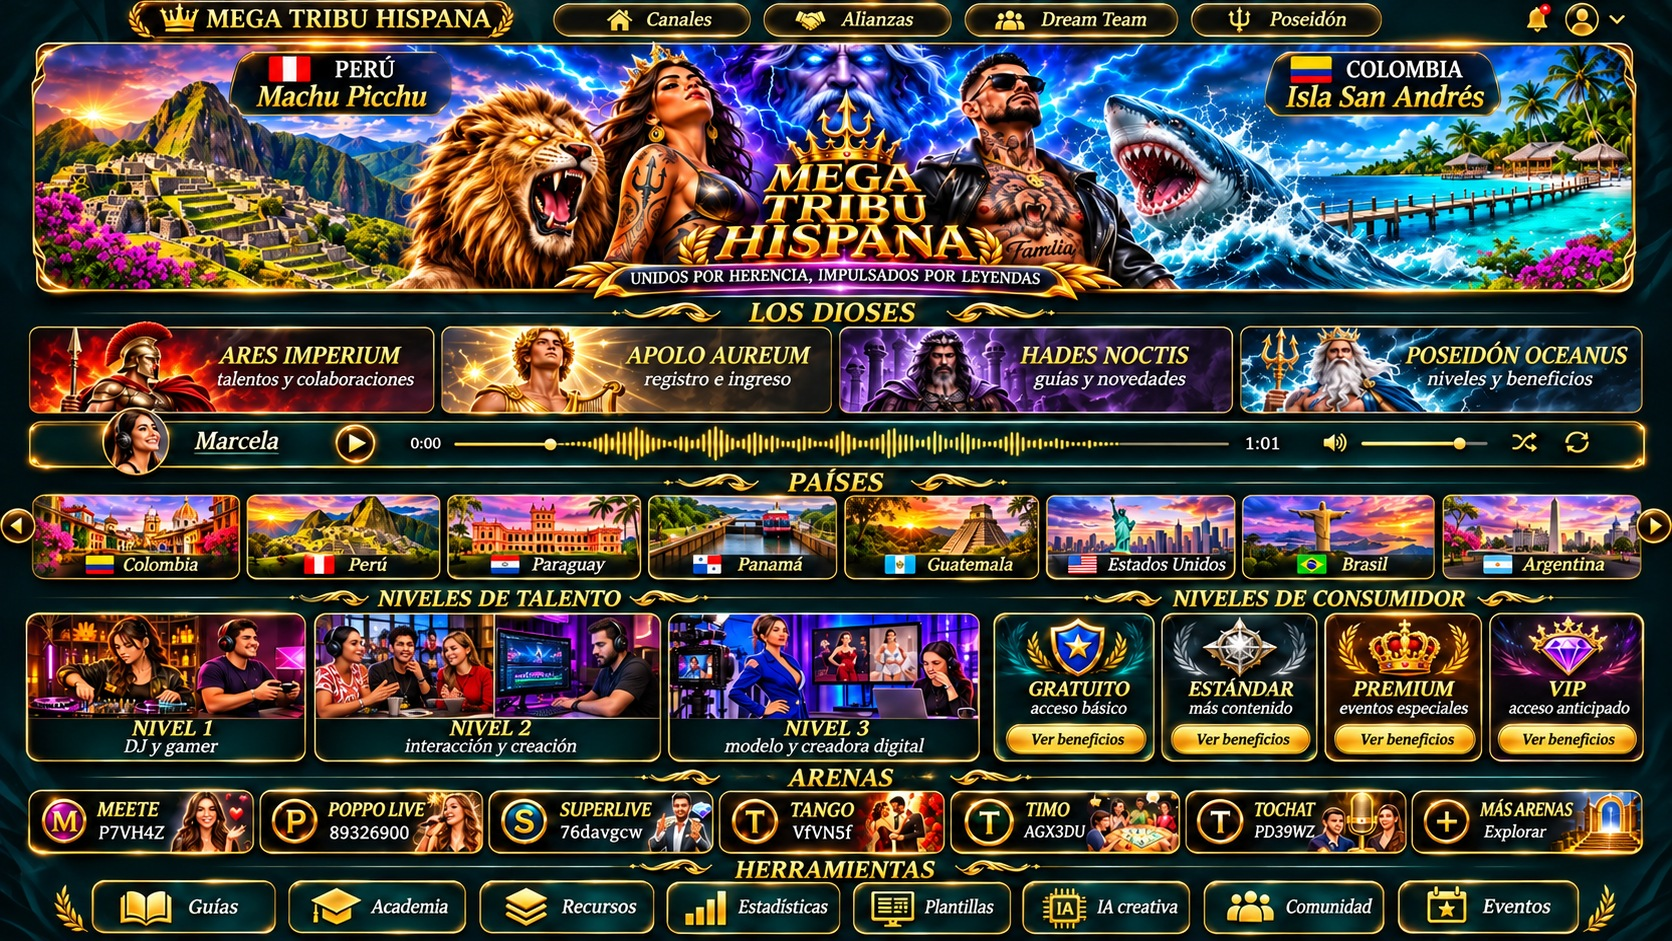
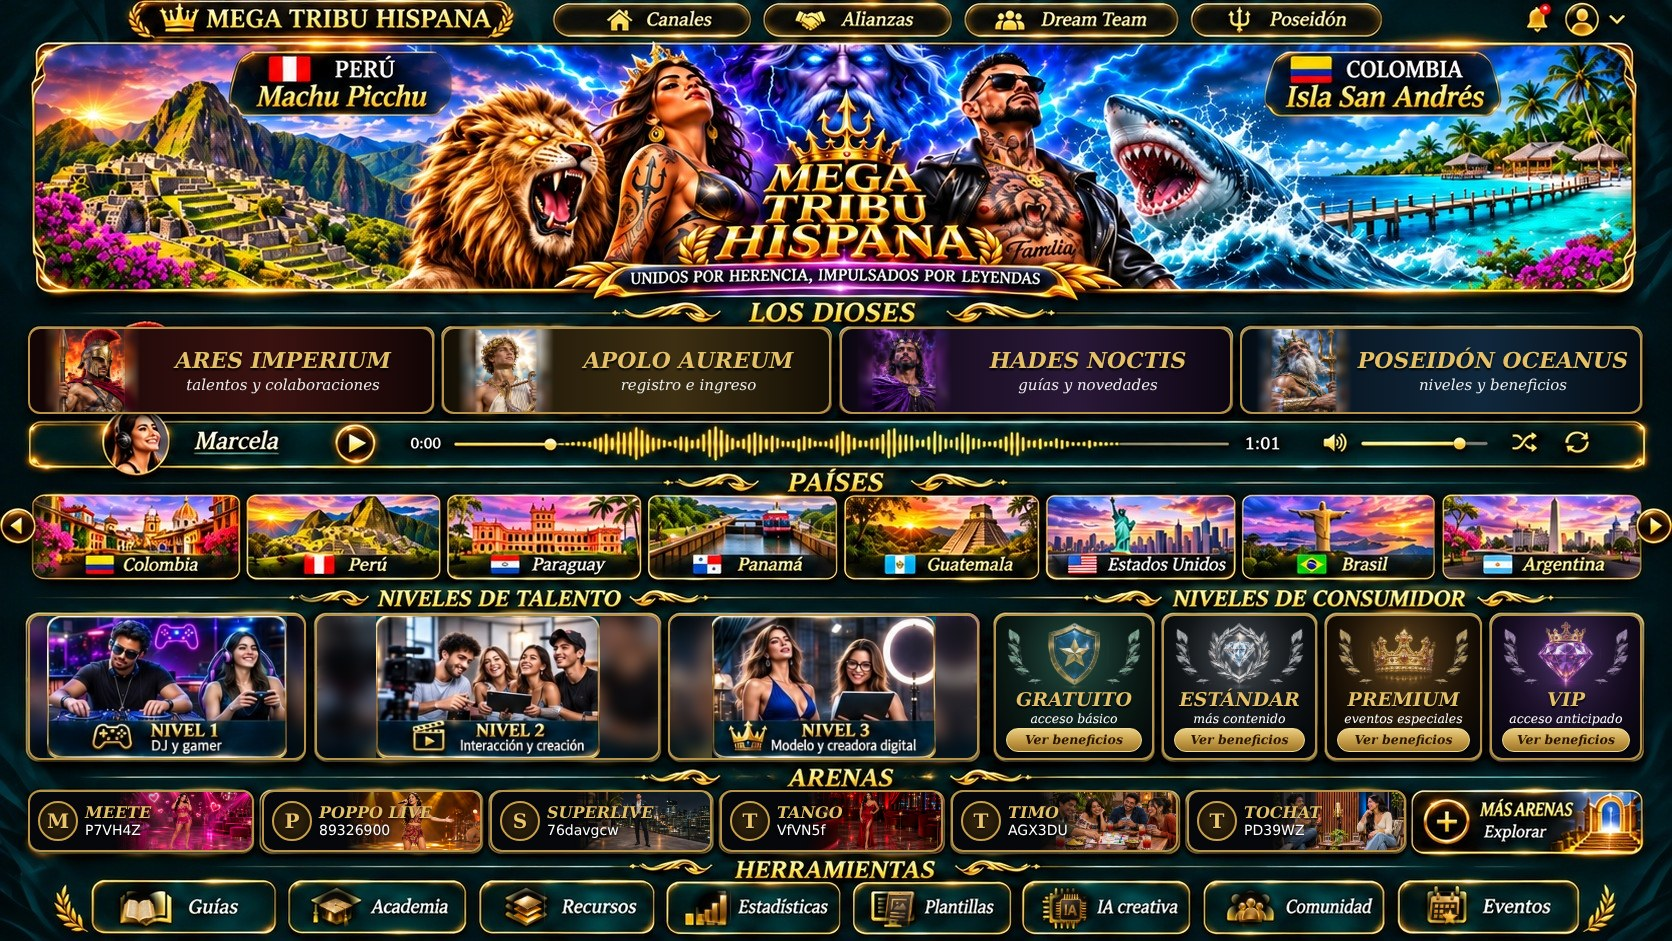
Add files via upload

Changed region(s): [[0.0, 0.6472, 0.9952, 0.9862], [0.0, 0.339, 0.9952, 0.4623], [0.8397, 0.9245, 0.9019, 0.9862]]

diff --git a/index.html b/index.html
@@ -34,11 +34,11 @@ a.r:hover,a.r:focus-visible{filter:brightness(1.15);box-shadow:0 0 0 2px #ffd56b
 .lienzo .r{background-image:none!important;position:absolute;left:calc(var(--x) / 16.72 * 1%);top:calc(var(--y) / 9.41 * 1%);width:calc(var(--w) / 16.72 * 1%);height:calc(var(--h) / 9.41 * 1%);aspect-ratio:auto;background:none}
 .lienzo .titulo,.lienzo .fila-titulo{display:none}
 .lienzo .paises{position:absolute;left:.6%;top:52.3%;width:98.8%;height:9.6%;background:#041214;border-radius:6px}
-.lienzo .audio{position:absolute;left:1.5%;top:42.9%;width:97%;height:7.5%}
+.lienzo .audio{position:absolute;left:1.5%;top:44.3%;width:97%;height:5.8%}
 .lienzo .bloque{display:contents}
 
 /* ===== modo COLUMNA (celular / vertical) ===== */
-.columna{width:100vw;max-width:100vw;height:var(--alto);display:flex;flex-direction:column;gap:5px;padding:calc(env(safe-area-inset-top) + 5px) 6px calc(env(safe-area-inset-bottom) + 5px)}
+.columna{width:100vw;max-width:100vw;height:var(--alto);display:flex;flex-direction:column;justify-content:space-evenly;gap:5px;padding:calc(env(safe-area-inset-top) + 5px) 6px calc(env(safe-area-inset-bottom) + 5px)}
 .columna .bloque{display:flex;gap:4px;min-height:0;width:100%;min-width:0}
 .columna .r{min-width:0;min-height:0}
 .columna .nav .r,.columna .fila .r{flex-basis:0}
@@ -53,7 +53,7 @@ a.r:hover,a.r:focus-visible{filter:brightness(1.15);box-shadow:0 0 0 2px #ffd56b
 .columna .arenas::-webkit-scrollbar{display:none}
 .columna .arenas .r{flex:none;height:clamp(44px,7.5vh,62px);scroll-snap-align:start}
 .columna .herr{display:grid;grid-template-columns:repeat(4,minmax(0,1fr));gap:4px;flex:none}
-.columna .paises{flex:1 1 72px;min-height:58px;max-height:30vh}
+.columna .paises{flex:none;height:clamp(64px,12vh,140px)}
 .columna .audio{flex:none;height:44px}
 .titulo{flex:none;text-align:center;font:italic 900 13px/1 "Playfair Display",Georgia,serif;letter-spacing:.06em;color:#ffd56b;text-shadow:0 1px 0 #6b430a,0 0 10px rgba(255,190,70,.4);text-transform:uppercase}
 .titulo::before,.titulo::after{content:"";display:inline-block;width:34px;height:1.5px;margin:0 8px;vertical-align:middle;background:linear-gradient(90deg,transparent,#e5b04d)}
@@ -66,7 +66,7 @@ a.r:hover,a.r:focus-visible{filter:brightness(1.15);box-shadow:0 0 0 2px #ffd56b
 .carril::-webkit-scrollbar{display:none}
 .pais{flex:0 0 calc((100% - 7 * .55%) / 8);scroll-snap-align:start;position:relative;border-radius:7px;overflow:hidden;border:1.5px solid #d6a648;
  box-shadow:0 0 8px rgba(255,195,80,.25);cursor:pointer;background:#000}
-.columna .pais{flex-basis:30%}
+.columna .pais{flex-basis:23%}
 .pais img{width:100%;height:100%;object-fit:cover;display:block}
 .pais span{position:absolute;left:0;right:0;bottom:0;padding:10% 2px 3px;text-align:center;background:linear-gradient(transparent,rgba(0,0,0,.88) 40%);
  font:italic 700 clamp(9px,1.05vw,15px)/1.1 Georgia,serif;color:#fff;white-space:nowrap;overflow:hidden;text-overflow:ellipsis}
@@ -187,7 +187,7 @@ document.addEventListener('click',function(e){var a=e.target.closest('[data-ir]'
 /* modo lienzo (horizontal) o columna (vertical) */
 var app=document.getElementById('app');
 function modo(){var h=(tg&&tg.initData&&tg.viewportStableHeight)||innerHeight;var ancho=innerWidth>=700&&innerWidth/h>=1.25;
- app.className=ancho?'lienzo':'columna';}
+ app.className='lienzo';}
 alto();modo();addEventListener('resize',function(){alto();modo();});
 
 /* países */
